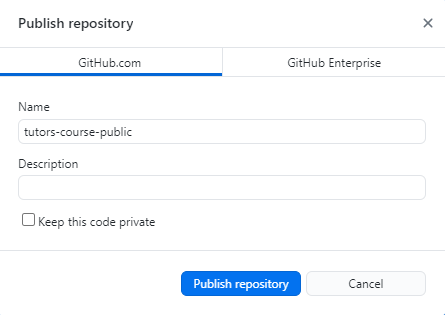
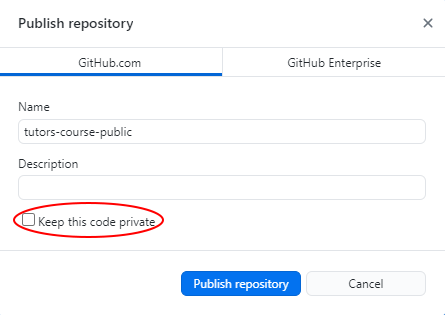
content

Changed region(s): [[0.0292, 0.6571, 0.2921, 0.7714], [0.0876, 0.6286, 0.3798, 0.7143], [0.2921, 0.7143, 0.3506, 0.7429]]

diff --git a/topic-01-simple/book-a/02.Repos.md b/topic-01-simple/book-a/02.Repos.md
@@ -11,10 +11,7 @@ https://github.com/tutors-sdk/tutors-starter.git
 ![Clone Repo](img/2-cloned.png)
 
 3. Open your File Explorer, and follow this path:
-
-    - **This PC** -> **Boot** -> **Users** -> **Your Name** -> **tutors-starter**
-![Path to tutors-starter](img/3-path.png)
-
+    ![Path to tutors-starter](img/3-path.png)
 4. **Right click** some blank space in the file explorer window and select **Properties**.
     ![Properties](img/4-prop.png)
 5. At the bottom of the pane, there is a checkbox labelled **Hidden**, check this box then select **Apply**.    
@@ -25,8 +22,6 @@ https://github.com/tutors-sdk/tutors-starter.git
     ![Hidden Files](img/7-hidden.png)
 8. Deselect the **Hidden** checkbox and select **Apply**, then confirm again with **Ok**.     
     ![Show Files](img/8-show.png)
-
-
 9. You will notice a **.git** folder has appeared. This folder links the **tutors-starter** folder to the remote repository it was cloned from. We must break this link so you can connect it to your own remote repository.
     ![.git Folder](img/10-git.png)
 
@@ -41,11 +36,25 @@ json
 
 # Create a New Remote Repository
 
-1. Navigate back a folder to **This PC** -> **Boot** -> **Users** -> **Your Name** and drag the **tutors-starter** folder, into the **GitHub Desktop** application.
+1. In Git Desktop, Navigate to **File** -> **Add Local Repository**.
+
+    ![Add Local Repo](img/11-localrepo.png)
+
+2. Select **Choose**, then navigate to your **tutors-starter** folder at this path:
+
+    ![Path to tutors-starter](img/3-path.png)
 
 2. As the folder is not linked to a remote repository, you will be prompted to **Create a New Repository**. Select this link:
 
-3. Enter tutors-course-public as the repository name and select **LOOKUP**
+    ![Follow This Link](img/11-addrepo.png)
+
+3. Enter tutors-course-public as the repository name and select **Create Repository**. You can name the repository whatever name you like, but make sure to use the same name consistantly throughout.
+
+    ![Create Repo](img/12-create.png)
+
+4. Enter the name from the previous step once again, then deselect the **Keep this code private** and click **Publish repository**.  
+
+    ![Publish Repo](img/12-create.png)  
 
 You now have a file structure stored in a remote repository on GitHub which will be used by Netlify to generate and deploy the course website. 
 
